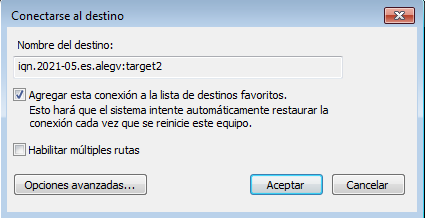
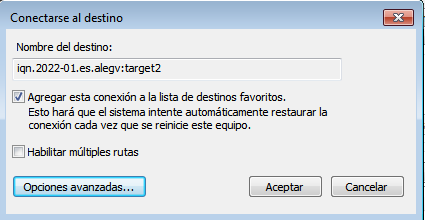
iscsi

Changed region(s): [[0.0, 0.0, 1.0, 1.0]]

diff --git a/content/practicas/iscsi.md b/content/practicas/iscsi.md
@@ -4,7 +4,7 @@ description = ""
 tags = [
     "ASO"
 ]
-date = "2021-05-25"
+date = "2022-01-06"
 menu = "main"
 +++
 
@@ -26,134 +26,124 @@ menu = "main"
 
 * Ahora realizaremos nuestra configuración, si lo hicieramos desde línea de comandos al cerrar la sesión se eliminaria nuestra configuración, por ello vamos a configurarlo mediante los ficheros de configuración empezaremos con `/etc/tgt/conf.d/target1.conf` para definir dos targets, uno para el cliente windows y otro para el cliente debian, notaremos que el target 2 tiene una línea que no está en el primero, esto es porque lo usaremos para windows y necesitaremos un usuario y una contraseña para el mismo.
 
-        <target iqn.2021-05.es.alegv:target1>
-                backing-store /dev/sdb
-        </target>
-        <target iqn.2021-05.es.alegv:target2>
-                backing-store /dev/sdc
-                incominguser admin admin
-        </target>
+~~~
+<target iqn.2022-01.es.alegv:target1>
+        backing-store /dev/sdb
+</target>
+<target iqn.2022-01.es.alegv:target2>
+        backing-store /dev/sdc
+        incominguser admin admin
+</target>
+~~~
 
 * Después de reiniciar el servicio vamos a ver las targets que acabamos de configurar.
 
-        vagrant@maquina1:~$ sudo systemctl restart tgt
+~~~
+vagrant@maquina1:~$ sudo systemctl restart tgt
 
-        vagrant@maquina1:~$ sudo tgtadm --op show --mode target
-        Target 1: iqn.2021-05.es.alegv:target1
-            System information:
-                Driver: iscsi
-                State: ready
-            I_T nexus information:
-            LUN information:
-                LUN: 0
-                    Type: controller
-                    SCSI ID: IET     00010000
-                    SCSI SN: beaf10
-                    Size: 0 MB, Block size: 1
-                    Online: Yes
-                    Removable media: No
-                    Prevent removal: No
-                    Readonly: No
-                    SWP: No
-                    Thin-provisioning: No
-                    Backing store type: null
-                    Backing store path: None
-                    Backing store flags: 
-                LUN: 1
-                    Type: disk
-                    SCSI ID: IET     00010001
-                    SCSI SN: beaf11
-                    Size: 1074 MB, Block size: 512
-                    Online: Yes
-                    Removable media: No
-                    Prevent removal: No
-                    Readonly: No
-                    SWP: No
-                    Thin-provisioning: No
-                    Backing store type: rdwr
-                    Backing store path: /dev/sdb
-                    Backing store flags: 
-            Account information:
-            ACL information:
-                ALL
-        Target 2: iqn.2021-05.es.alegv:target2
-            System information:
-                Driver: iscsi
-                State: ready
-            I_T nexus information:
-            LUN information:
-                LUN: 0
-                    Type: controller
-                    SCSI ID: IET     00020000
-                    SCSI SN: beaf20
-                    Size: 0 MB, Block size: 1
-                    Online: Yes
-                    Removable media: No
-                    Prevent removal: No
-                    Readonly: No
-                    SWP: No
-                    Thin-provisioning: No
-                    Backing store type: null
-                    Backing store path: None
-                    Backing store flags: 
-                LUN: 1
-                    Type: disk
-                    SCSI ID: IET     00020001
-                    SCSI SN: beaf21
-                    Size: 1074 MB, Block size: 512
-                    Online: Yes
-                    Removable media: No
-                    Prevent removal: No
-                    Readonly: No
-                    SWP: No
-                    Thin-provisioning: No
-                    Backing store type: rdwr
-                    Backing store path: /dev/sdc
-                    Backing store flags: 
-            Account information:
-            ACL information:
-                ALL
+vagrant@maquina1:~$ sudo tgtadm --op show --mode target
+Target 1: iqn.2022-01.es.alegv:target1
+    System information:
+        Driver: iscsi
+        State: ready
+    I_T nexus information:
+    LUN information:
+        LUN: 0
+            Type: controller
+            SCSI ID: IET     00010000
+            SCSI SN: beaf10
+            Size: 0 MB, Block size: 1
+            Online: Yes
+            Removable media: No
+            Prevent removal: No
+            Readonly: No
+            SWP: No
+            Thin-provisioning: No
+            Backing store type: null
+            Backing store path: None
+            Backing store flags: 
+    Account information:
+    ACL information:
+        ALL
+Target 2: iqn.2022-01.es.alegv:target2
+    System information:
+        Driver: iscsi
+        State: ready
+    I_T nexus information:
+    LUN information:
+        LUN: 0
+            Type: controller
+            SCSI ID: IET     00020000
+            SCSI SN: beaf20
+            Size: 0 MB, Block size: 1
+            Online: Yes
+            Removable media: No
+            Prevent removal: No
+            Readonly: No
+            SWP: No
+            Thin-provisioning: No
+            Backing store type: null
+            Backing store path: None
+            Backing store flags: 
+    Account information:
+        admin
+    ACL information:
+        ALL
+~~~
 
 * Vamos a dirigirnos al cliente linux ahora e instalar el paquete `open-iscsi`.
 
-        vagrant@maquina2:~$ sudo apt-get install open-iscsi
+~~~
+vagrant@maquina2:~$ sudo apt install open-iscsi
+~~~
 
 * Podemos comprobar que esta máquina solo tiene un disco duro.
 
-        NAME   MAJ:MIN RM SIZE RO TYPE MOUNTPOINT
-        sda      8:0    0  20G  0 disk 
-        └─sda1   8:1    0  20G  0 part /
+~~~
+vagrant@maquina2:~$ lsblk
+NAME   MAJ:MIN RM SIZE RO TYPE MOUNTPOINT
+vda    254:0    0  20G  0 disk 
+└─vda1 254:1    0  20G  0 part /
+~~~
 
 * Vamos a ver las targets que tenemos disponibles.
 
-        root@maquina2:~# iscsiadm --mode discovery --type sendtargets --portal 172.22.100.15
-        172.22.100.15:3260,1 iqn.2021-05.es.alegv:target1
-        172.22.100.15:3260,1 iqn.2021-05.es.alegv:target2
+~~~
+root@maquina2:~# iscsiadm --mode discovery --type sendtargets --portal 192.168.121.231
+192.168.121.231:3260,1 iqn.2022-01.es.alegv:target1
+192.168.121.231:3260,1 iqn.2022-01.es.alegv:target2
+~~~
 
 * Vamos a conectarnos a la que queramos.
 
-        root@maquina2:~# sudo iscsiadm --mode node -T iqn.2021-05.es.alegv:target1 --portal 172.22.100.15 --login
-        Logging in to [iface: default, target: iqn.2021-05.es.     alegv:target1, portal: 172.22.100.15,3260] (multiple)
-        Login to [iface: default, target: iqn.2021-05.es.alegv:target1, portal: 172.22.100.15,3260] successful.
+~~~
+root@maquina2:~# sudo iscsiadm --mode node -T iqn.2022-01.es.alegv:target1 --portal 192.168.121.231 --login
+Logging in to [iface: default, target: iqn.2022-01.es.alegv:target1, portal: 192.168.121.231,3260]
+Login to [iface: default, target: iqn.2022-01.es.alegv:target1, portal: 192.168.121.231,3260] successful.
+~~~
 
 * Si ahora listamos nuestros dispositivos veremos que se ha añadido un nuevo volumen.
 
-        root@maquina2:~# lsblk
-        NAME   MAJ:MIN RM SIZE RO TYPE MOUNTPOINT
-        sda      8:0    0  20G  0 disk 
-        └─sda1   8:1    0  20G  0 part /
-        sdb      8:16   0   1G  0 disk 
+~~~
+vagrant@maquina2:~$ lsblk
+NAME   MAJ:MIN RM SIZE RO TYPE MOUNTPOINT
+vda    254:0    0  20G  0 disk 
+└─vda1 254:1    0  20G  0 part /
+vdb    254:16   0   1G  0 disk
+~~~
 
 * Vamos a darle formato y montarlo.
 
-        root@maquina2:~# mkfs.ext4 /dev/sdb
-        root@maquina2:~# mount /dev/sdb /mnt/prueba
+~~~
+root@maquina2:~# mkfs.ext4 /dev/vdb
+root@maquina2:~# mount /dev/vdb /mnt/prueba
 
-        root@maquina2:~# lsblk
-        NAME   MAJ:MIN RM SIZE RO TYPE MOUNTPOINT
-        sda      8:0    0  20G  0 disk 
-        └─sda1   8:1    0  20G  0 part /
-        sdb      8:16   0   1G  0 disk /mnt/prueba
+root@maquina2:~$ lsblk
+NAME   MAJ:MIN RM SIZE RO TYPE MOUNTPOINT
+vda    254:0    0  20G  0 disk 
+└─vda1 254:1    0  20G  0 part /
+vdb    254:16   0   1G  0 disk /mnt/prueba
+~~~
 
 ### systemd mount
 
@@ -167,7 +157,7 @@ menu = "main"
         Description= Montaje del target1         
 
         [Mount]
-        What=/dev/sdb
+        What=/dev/vdb
         Where=/prueba1  
         Type=ext4
         Options=_netdev
@@ -187,11 +177,13 @@ menu = "main"
 
 * Vamos a ver que se ha realizado el cambio, podremos comprobarlo porque hemos cambiado el punto de montaje, ahora está en `/prueba1`.
 
-        root@maquina2:~# lsblk
-        NAME   MAJ:MIN RM SIZE RO TYPE MOUNTPOINT
-        sda      8:0    0  20G  0 disk 
-        └─sda1   8:1    0  20G  0 part /
-        sdb      8:16   0   1G  0 disk /prueba1
+~~~
+root@maquina2:~$ lsblk
+NAME   MAJ:MIN RM SIZE RO TYPE MOUNTPOINT
+vda    254:0    0  20G  0 disk 
+└─vda1 254:1    0  20G  0 part /
+vdb    254:16   0   1G  0 disk prueba1
+~~~
 
 * Ahora si podremos abrir nuestro cliente windows y nos dirigiremos a `panel de control > sistema y seguridad > herramientas administrativas > iniciador iSCSI` una vez ahí, en `conexión rápida` añadiremos la IP de nuestro servidor y aparcerán las targets que tenemos configuradas.
 
@@ -203,11 +195,7 @@ menu = "main"
 
 ![targets](/iscsi/3.png)
 
-* Después de esto podemos comprobar que este target está activo.
-
-![targets](/iscsi/4.png)
-
-* Para montar este disco iriamos a la aplicacion de particiones.
+* Después de activar nuestro targer debemos montarlo, para ello iriamos a la aplicacion de particiones.
 
 ![targets](/iscsi/5.png)
 
